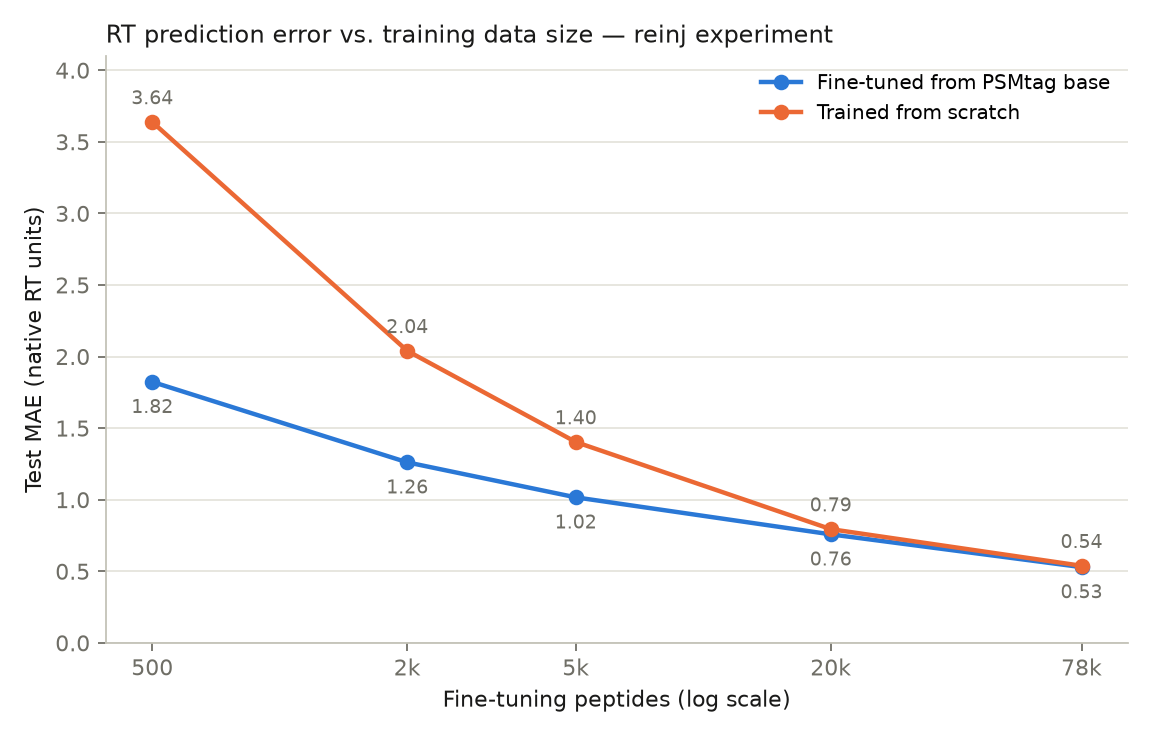
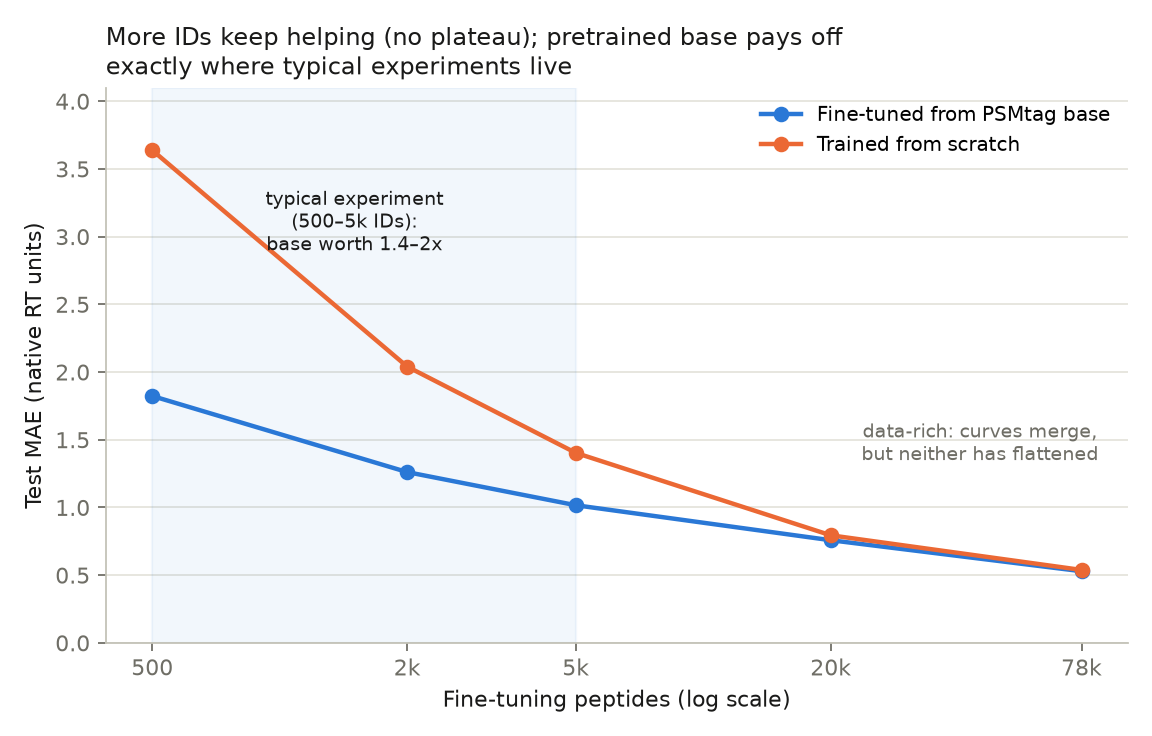
Summary figures + regeneration script
make_figures.py rebuilds results/fig* and mae_vs_data.png from the
benchmark JSONs (uv run --no-project --with matplotlib python make_figures.py).

diff --git a/make_figures.py b/make_figures.py
@@ -1,0 +1,104 @@
+"""Regenerate the summary figures in results/ from the benchmark JSONs.
+
+Usage: uv run --no-project --with matplotlib python make_figures.py
+Outputs: results/fig1_vs_timeplex.png, results/mae_vs_data.png,
+         results/fig2_calibrate.png, results/fig3_im_charge.png
+"""
+import json
+from pathlib import Path
+
+import matplotlib
+matplotlib.use("Agg")
+import matplotlib.pyplot as plt
+
+R = Path(__file__).parent / "results"
+BLUE, ORANGE, AQUA, INK, MUTED = "#2a78d6", "#eb6834", "#1baf7a", "#1a1a19", "#6f6e66"
+
+
+def style(ax):
+    ax.grid(axis="y", color="#e5e4dc", lw=0.8); ax.set_axisbelow(True)
+    for s in ("top", "right"): ax.spines[s].set_visible(False)
+    for s in ("left", "bottom"): ax.spines[s].set_color("#c3c2b7")
+    ax.tick_params(colors=MUTED)
+
+
+# ---- fig 1: RT accuracy vs timePlex baseline ----
+k = json.load(open(R / "bench_keras_vs_jrif.json"))
+fig, ax = plt.subplots(figsize=(5.4, 3.6), dpi=160)
+names = ["timePlex baseline\nbest single\n(2.3M params)",
+         "timePlex baseline\n5-model ensemble\n(11M params)",
+         "JRIF dilated CNN\nsingle model\n(162k params)"]
+vals = [min(m["mae"] for m in k["keras_original"]["per_model"]),
+        k["keras_original"]["ensemble"]["mae"],
+        k["jrif_dilated_cnn"]["test"]["mae"]]
+bars = ax.bar(names, vals, color=[MUTED, ORANGE, BLUE], width=0.62)
+for b, v in zip(bars, vals):
+    ax.annotate(f"{v:.2f}", (b.get_x() + b.get_width() / 2, v),
+                ha="center", va="bottom", fontsize=10, color=INK)
+ax.set_ylabel("Test MAE (iRT units) — lower is better", color=INK)
+ax.set_title("RT prediction vs timePlex baseline (identical data & split)",
+             loc="left", fontsize=11, color=INK)
+style(ax); ax.set_ylim(0, 2.2)
+fig.tight_layout(); fig.savefig(R / "fig1_vs_timeplex.png", facecolor="white")
+
+# ---- fig: MAE vs fine-tuning data (no saturation) ----
+ft = json.load(open(R / "q10_titration_s0.json"))
+sc = json.load(open(R / "q11_scratch_titration_s0.json"))
+Ns = [500, 2000, 5000, 20000, 78190]
+fig, ax = plt.subplots(figsize=(7.2, 4.6), dpi=160)
+ax.plot(Ns, [ft[f"n{n}"]["mae"] for n in Ns], color=BLUE, lw=2, marker="o", ms=6,
+        label="Fine-tuned from PSMtag base")
+ax.plot(Ns, [sc[f"n{n}"]["mae"] for n in Ns], color=ORANGE, lw=2, marker="o", ms=6,
+        label="Trained from scratch")
+ax.set_xscale("log"); ax.set_xticks(Ns)
+ax.set_xticklabels(["500", "2k", "5k", "20k", "78k"]); ax.minorticks_off()
+ax.set_xlabel("Fine-tuning peptides (log scale)", color=INK)
+ax.set_ylabel("Test MAE (native RT units)", color=INK)
+ax.set_title("More IDs keep helping (no plateau); pretrained base pays off\n"
+             "exactly where typical experiments live", loc="left", fontsize=11, color=INK)
+ax.axvspan(500, 5000, color=BLUE, alpha=0.06)
+ax.annotate("typical experiment\n(500–5k IDs):\nbase worth 1.4–2x", (1500, 2.9),
+            ha="center", fontsize=8.5, color=INK)
+ax.annotate("data-rich: curves merge,\nbut neither has flattened", (45000, 1.35),
+            ha="center", fontsize=8.5, color=MUTED)
+ax.legend(frameon=False, loc="upper right", fontsize=9)
+style(ax); ax.set_ylim(0, 4.1)
+fig.tight_layout(); fig.savefig(R / "mae_vs_data.png", facecolor="white")
+
+# ---- fig 2: calibrate() regimes ----
+hyb = json.load(open(R / "q14_hybrid_s0.json"))
+SPAN = 88.82  # reinj test-set 95% RT span
+Ns2 = [100, 500, 2000]
+iso_v = [2.07, 1.95, 1.96]  # measured q13 run (its JSON was truncated by a crash)
+ft_v = [100 * hyb[f"ft_n{n}"]["mae"] / SPAN for n in Ns2]
+fig, ax = plt.subplots(figsize=(5.4, 3.6), dpi=160)
+ax.plot(Ns2, iso_v, color=AQUA, lw=2, marker="o", ms=6,
+        label="Frozen model + isotonic warp (no training)")
+ax.plot(Ns2, ft_v, color=BLUE, lw=2, marker="o", ms=6, label="Full fine-tune")
+ax.set_xscale("log"); ax.set_xticks(Ns2)
+ax.set_xticklabels(["100", "500", "2k"]); ax.minorticks_off()
+ax.set_xlabel("Identified peptides available for calibration", color=INK)
+ax.set_ylabel("Test MAE (% of gradient span)", color=INK)
+ax.set_title("calibrate(): auto-selects the right regime per data size",
+             loc="left", fontsize=11, color=INK)
+ax.legend(frameon=False, fontsize=8.5)
+style(ax); ax.set_ylim(0, 3.6)
+fig.tight_layout(); fig.savefig(R / "fig2_calibrate.png", facecolor="white")
+
+# ---- fig 3: IM charge injection ----
+q = json.load(open(R / "q21_im_charge_s0.json"))
+fig, ax = plt.subplots(figsize=(5.4, 3.6), dpi=160)
+modes = [("none", "No charge", MUTED), ("head", "Charge at head", ORANGE),
+         ("input", "Charge as input channel", BLUE)]
+zs = [2, 3, 4]; w = 0.26
+for i, (m, lab, c) in enumerate(modes):
+    ax.bar([x + (i - 1) * w for x in range(3)],
+           [1000 * q[m][f"mae_z{z}"] for z in zs], width=w, color=c, label=lab)
+ax.set_xticks(range(3)); ax.set_xticklabels([f"z={z}" for z in zs])
+ax.set_ylabel("IM test MAE (1/K0 × 10⁻³)", color=INK)
+ax.set_title("Ion-mobility model: where to inject charge", loc="left",
+             fontsize=11, color=INK)
+ax.legend(frameon=False, fontsize=8.5)
+style(ax)
+fig.tight_layout(); fig.savefig(R / "fig3_im_charge.png", facecolor="white")
+print("wrote 4 figures to", R)
